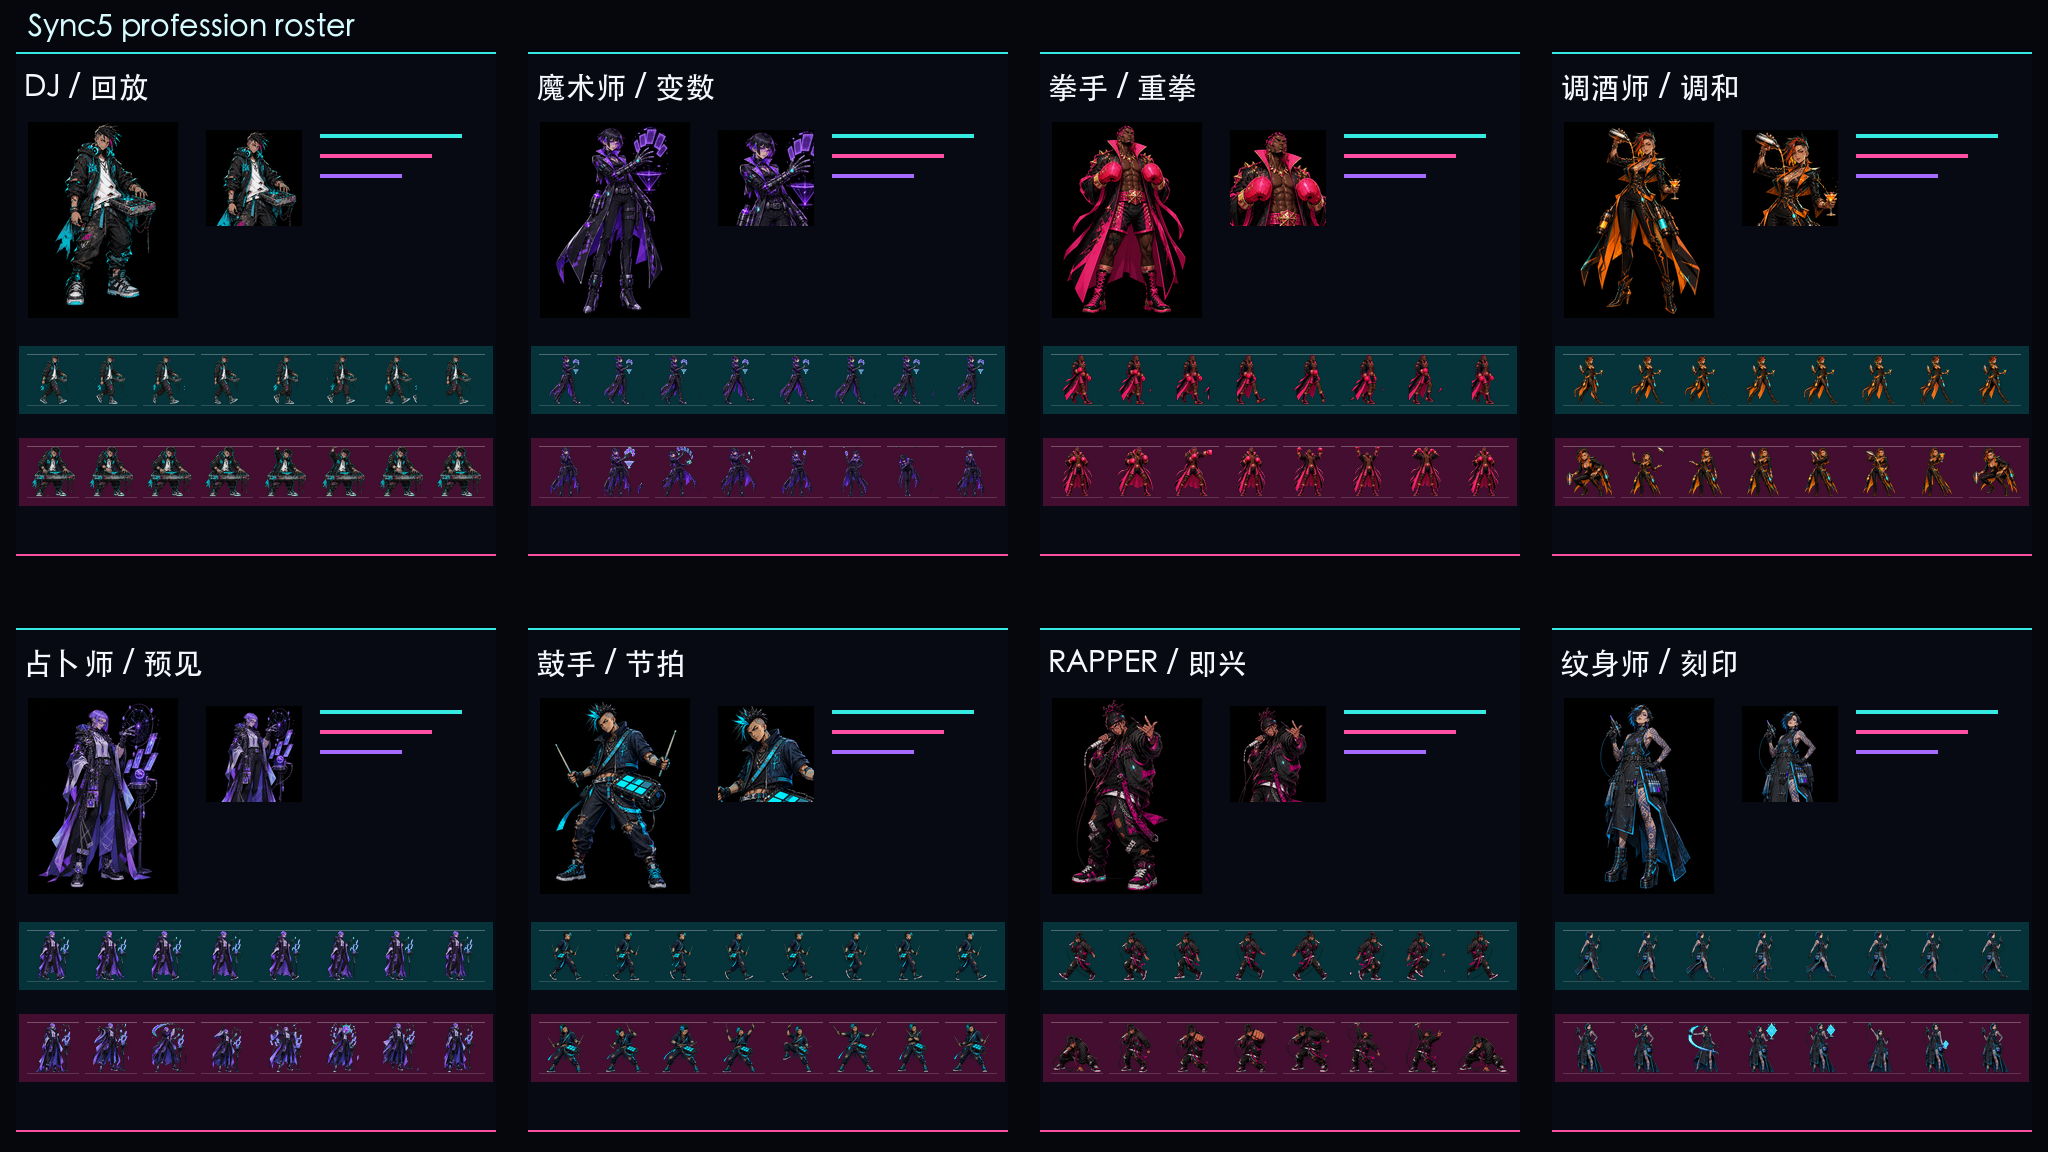
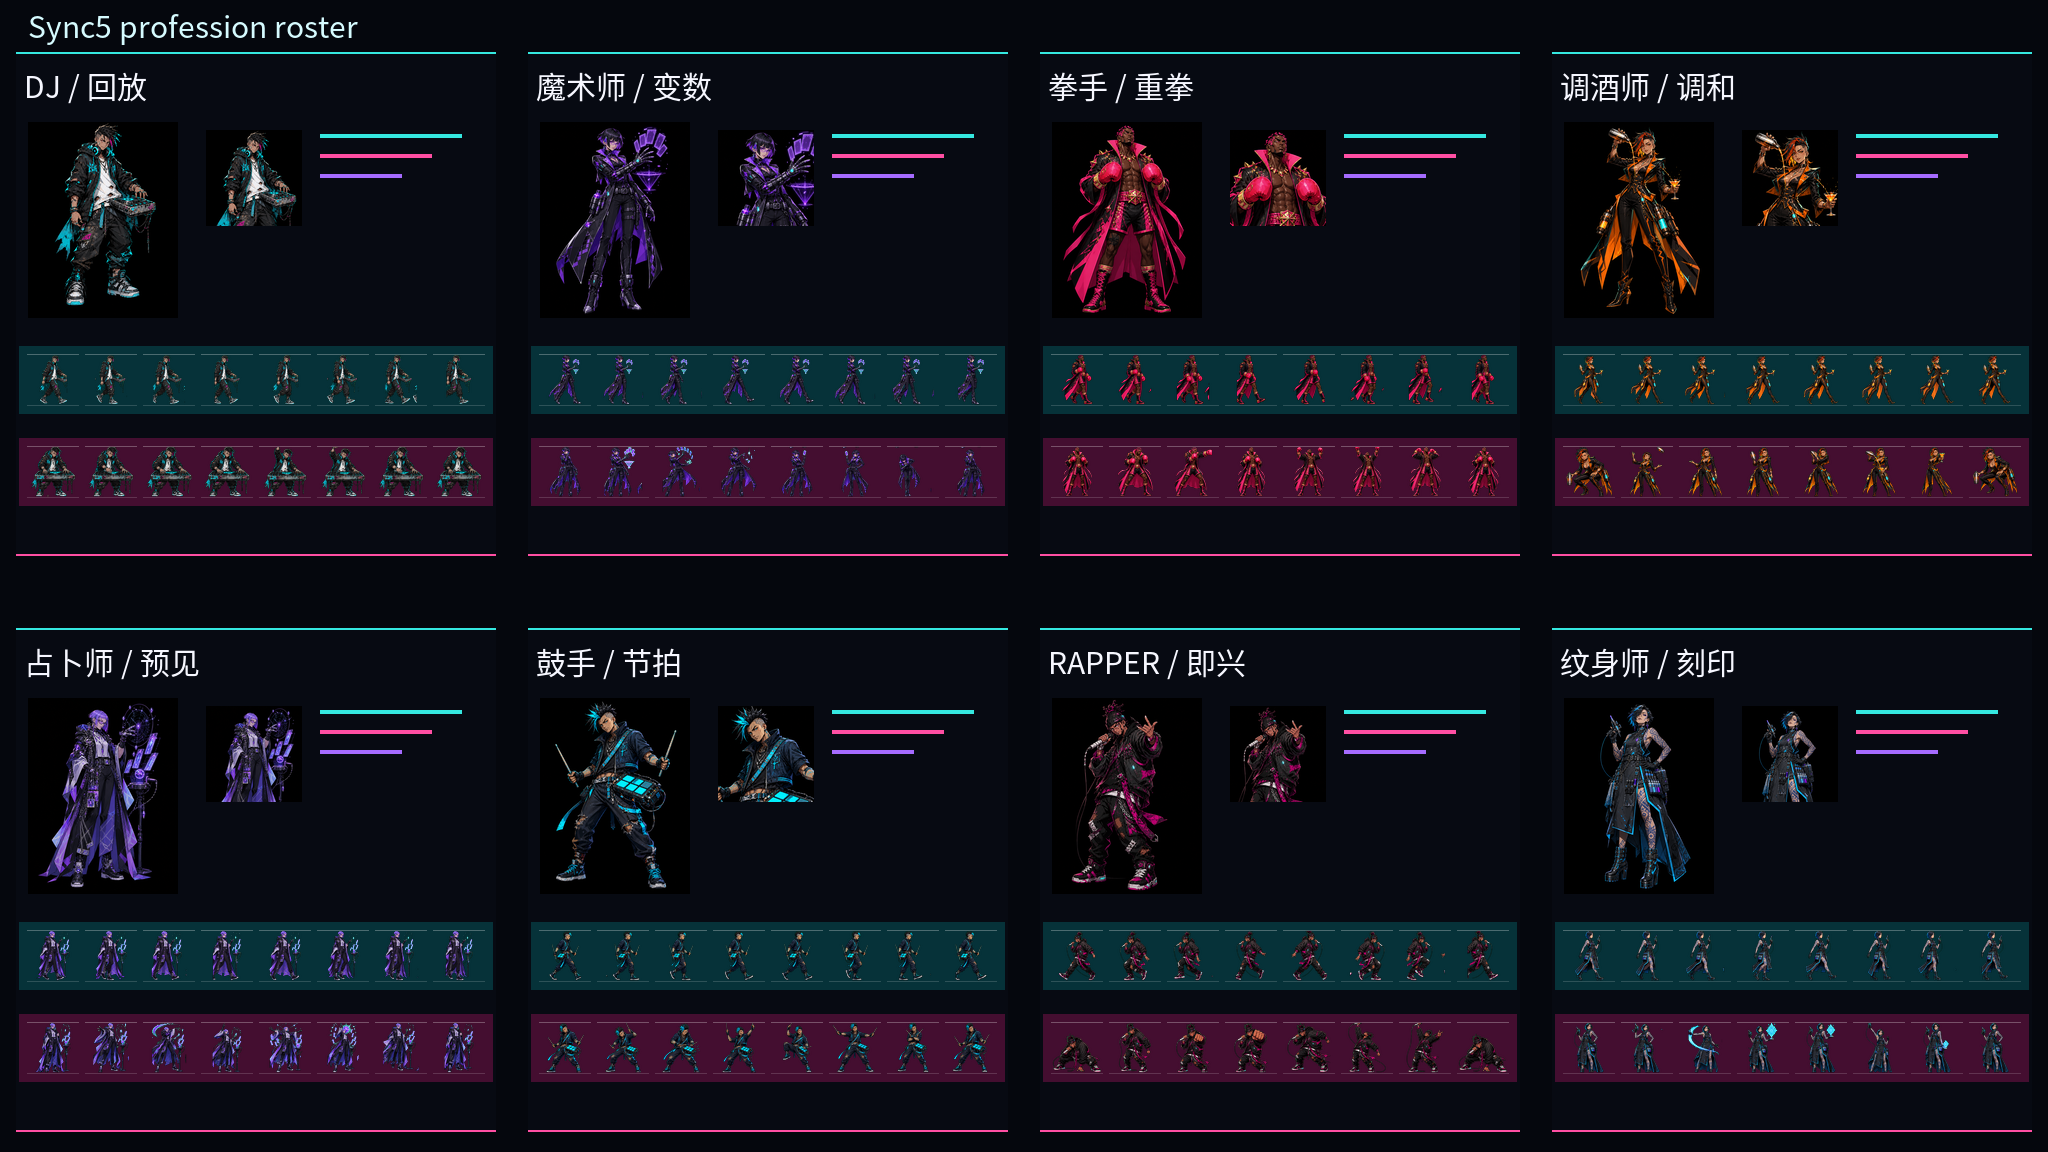
Make roster review typography reproducible
Constraint: Quality review required a pinned Noto Sans CJK SC subset, no system fallback, and fail-fast source image geometry checks.
Rejected: Committing the full upstream font | The contact sheet only needs a narrow header and roster label subset.
Confidence: high
Scope-risk: narrow
Directive: Keep contact-sheet labels manifest-driven and keep runtime integration separate from this art review asset path.
Tested: curl downloaded Noto Sans CJK SC Regular and Sans/LICENSE from notofonts/noto-cjk f8d157532fbfaeda587e826d4cd5b21a49186f7c; /opt/homebrew/bin/hb-subset produced assets/fonts/NotoSansCJKsc-Sync5Roster.otf; godot --headless --log-file /tmp/sync5-character-contact-1.log --path . --script res://tools/art/character_contact_sheet.gd; godot --headless --log-file /tmp/sync5-character-contact-2.log --path . --script res://tools/art/character_contact_sheet.gd; shasum -a 256 confirmed identical contact-sheet hashes; godot --headless --log-file /tmp/sync5-character-validate-fontfix.log --path . --script res://tools/art/verify_character_assets.gd; godot --headless --log-file /tmp/sync5-character-editor-fontfix.log --path . --editor --quit; godot --headless --log-file /tmp/sync5-character-tests-fontfix.log --path . --script res://tests/runner.gd; git diff --check; git diff --cached --check
Not-tested: Runtime character integration

diff --git a/assets/design/README.md b/assets/design/README.md
@@ -42,6 +42,12 @@ not a change of art direction.
   `portrait.png`, `avatar.png`, `walk.png`, `dance.png`, and `prompt.json`.
 - `assets/characters/contact-sheet.png` is the roster review sheet generated
   from the manifest and final processed assets.
+- `assets/fonts/NotoSansCJKsc-Sync5Roster.otf` is a contact-sheet-only subset
+  of Noto Sans CJK SC Regular. It covers the roster header plus manifest
+  `cn` / `title` label text and is not a general UI font.
+- `assets/fonts/OFL-NotoSansCJK.txt` records the upstream SIL Open Font License
+  1.1 for that subset. The subset source is Noto Sans CJK SC from
+  `notofonts/noto-cjk` commit `f8d157532fbfaeda587e826d4cd5b21a49186f7c`.
 
 Regeneration and validation commands:
 
@@ -63,6 +69,8 @@ Ownership:
 
 - Character art source, manifest identity fields, final processed character
   PNGs, prompts, and contact-sheet tooling belong to the art production lane.
+- The roster font subset and its OFL license belong to the same art production
+  lane because they exist only to make the generated contact sheet reproducible.
 - Character mechanics, gameplay data, runtime `Walker` rendering, and character
   selection integration remain owned by gameplay/runtime code.
 - Runtime integration is a separate future task.
